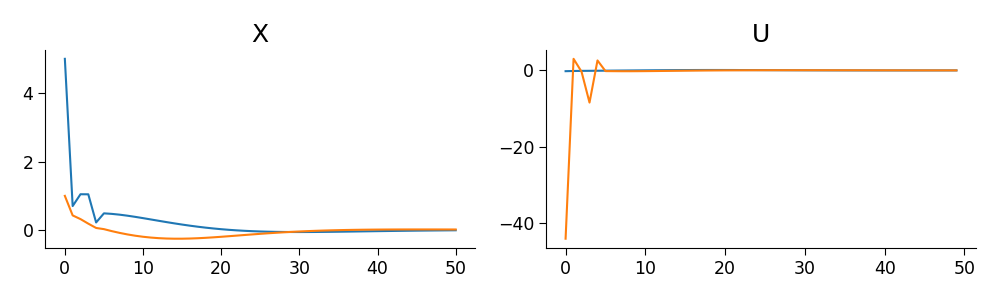
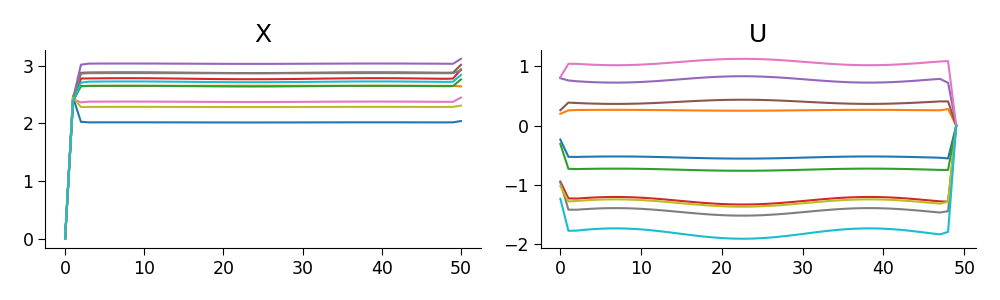
gradients passing on well-behaved nonlinear  example

diff --git a/tests/test_dilqr.py b/tests/test_dilqr.py
@@ -40,28 +40,27 @@ class TestDILQR(unittest.TestCase):
     def setUp(self):
         key = jr.PRNGKey(seed=234)
         key, skeys = keygen(key, 3)
-        n = 2
-        m = 2
+        n = 10
+        m = 10
         self.n = n
         self.m = m
         dt = 0.1
-        Uh = jnp.array([[1, dt], [-1 * dt, 1 - 0.5 * dt]])
-            #jax.random.normal(key, (n, n)) * 0.5 / jnp.sqrt(n)
+        Uh = jax.random.normal(key, (n, n)) * 0.5 / jnp.sqrt(n)
   
-        Wh =  jnp.array([[0, 1], [1, 0]]) * dt
+        Wh =  jax.random.normal(key, (n, m)) * 0.5 / jnp.sqrt(n) *dt
         L = jax.random.normal(key, (n, n)) * 0.5 / jnp.sqrt(n)
         Q = L @ L.T
         # initialise params
-        self.theta = Thetax0(x0=jnp.array([5.0, 1.0]), Q=Q, Uh=Uh, Wh=Wh, sigma=jnp.zeros((2)))
-        self.params = iLQRParams(x0=jnp.array([5.0, 1.0]), theta=self.theta)
+        self.theta = Thetax0(x0=jnp.zeros(n), Q=Q, Uh=Uh, Wh=Wh, sigma=jnp.zeros((2)))
+        self.params = iLQRParams(x0=jnp.zeros(n), theta=self.theta)
 
         # define model
         def cost(t: int, x: Array, u: Array, theta: Theta):
-            x_tgt = 0*jnp.sin(t/5)
+            x_tgt = jnp.sin(t/5)
             return (
                 jnp.sum(
                     (x.squeeze() - x_tgt.squeeze())
-                    @ (x.squeeze() - x_tgt.squeeze()).T
+                    @ theta.Q @ (x.squeeze() - x_tgt.squeeze()).T
                 )
                 + jnp.sum(jnp.log(1 + u**2))
             ) + 0.3 * jnp.sum(x**4)
@@ -71,13 +70,13 @@ class TestDILQR(unittest.TestCase):
             return 0*jnp.sum(x**2)
 
         def dynamics(t: int, x: Array, u: Array, theta: Theta):
-            return theta.Uh @ x + theta.Wh @ u #jnp.tanh(
+            return (theta.Uh @ jax.nn.sigmoid(x))*jnp.tanh(x) + theta.Wh @ u + jnp.sum(theta.Uh)*jnp.ones_like(x)
 
         self.model = System(
             cost, costf, dynamics, ModelDims(horizon=50, n=n, m=m, dt=dt)
         )
         self.dims = chex.Dimensions(T=50, N=n, M=m, X=1)
-        self.Us_init = 0.2 * jr.normal(
+        self.Us_init = 0. * jr.normal(
             next(skeys), (self.model.dims.horizon, self.model.dims.m)
         )
         # define linesearch parameters
@@ -93,7 +92,7 @@ class TestDILQR(unittest.TestCase):
         # @jax.jit
         def implicit_loss(p):
             theta = Theta(Q=p.Q, Uh=p.Uh, Wh=p.Wh, sigma=jnp.zeros((self.n)))
-            params = iLQRParams(x0=p.x0, theta=theta)
+            params = iLQRParams(x0=0*p.x0, theta=theta)
             tau_star = dilqr(
                 self.model,
                 params,
@@ -116,7 +115,7 @@ class TestDILQR(unittest.TestCase):
         def direct_loss(prms):
             theta = Theta(Uh=prms.Uh, Wh=prms.Wh, Q=prms.Q, sigma=jnp.zeros((2)))
             x_tgt = jnp.ones(self.n).squeeze()
-            params = iLQRParams(x0=prms.x0, theta=theta)
+            params = iLQRParams(x0=0*prms.x0, theta=theta)
             (Xs_stars, Us_stars, Lambs_stars), total_cost, costs = ilqr_solver(
                 self.model,
                 params,
@@ -135,7 +134,7 @@ class TestDILQR(unittest.TestCase):
         prms = self.theta
         theta = Theta(Uh=prms.Uh, Wh=prms.Wh, Q=prms.Q, sigma=jnp.zeros((2)))
         x_tgt = jnp.ones(self.n).squeeze()
-        params = iLQRParams(x0=prms.x0, theta=theta)
+        params = iLQRParams(x0=0*prms.x0, theta=theta)
         (Xs_stars, Us_stars, Lambs_stars), total_cost, costs = ilqr_solver(
                 self.model,
                 params,
@@ -156,14 +155,14 @@ class TestDILQR(unittest.TestCase):
         
         
         direct_val, direct_g = jax.value_and_grad(direct_loss)(self.theta)
-        # direct_g_flat = jax.tree.flatten(direct_g)[0]
-        # implicit_g_flat =  jax.tree.flatten(implicit_g)[0]
-        # for i, x in enumerate(direct_g_flat):
-        #     plt.figure()
-        #     plt.scatter(direct_g_flat[i].reshape(-1,1), implicit_g_flat[i].reshape(-1,1))
-        #     plt.xlabel("direct")
-        #     plt.ylabel("implicit")
-        #     plt.savefig(f"grads_{i}.png")
+        direct_g_flat = jax.tree.flatten(direct_g)[0]
+        implicit_g_flat =  jax.tree.flatten(implicit_g)[0]
+        for i, x in enumerate(direct_g_flat):
+            plt.figure()
+            plt.scatter(direct_g_flat[i].reshape(-1,1), implicit_g_flat[i].reshape(-1,1))
+            plt.xlabel("direct")
+            plt.ylabel("implicit")
+            plt.savefig(f"grads_{i}.png")
         chex.assert_trees_all_equal_shapes_and_dtypes(direct_g, self.theta)
         chex.assert_trees_all_close(direct_val, implicit_val, rtol=2e-1)
         chex.assert_trees_all_close(direct_g, implicit_g, rtol=2e-1)

diff --git a/tests/test_dlqr.py b/tests/test_dlqr.py
@@ -34,7 +34,7 @@ def setup_lqr_time_varying(
 ) -> LQR:
     """Setup LQR problem"""
     key = jr.PRNGKey(seed=234)
-    key, skeys = keygen(key, 3)
+    key, skeys = keygen(key, 4)
     # initialise dynamics
     span_time_m = dims["TXX"]
     span_time_v = dims["TX"]
@@ -46,7 +46,7 @@ def setup_lqr_time_varying(
     q = 2 * 1e-1 * jnp.tile(jnp.ones(dims["N"]), span_time_v)
     R = pen_weight["R"] * jnp.tile(jnp.eye(dims["M"][0]), span_time_m)
     r = 1e-6 * jnp.tile(jnp.ones(dims["M"]), span_time_v)
-    S = pen_weight["S"] * jnp.tile(jnp.ones(dims["NM"]), span_time_m)
+    S = pen_weight["S"] * jnp.tile(jr.normal(next(skeys), dims["NM"]), span_time_m)
     Qf = pen_weight["Q"] * jnp.eye(dims["N"][0])
     qf = 2 * 1e-1 * jnp.ones(dims["N"])
     # construct LQR
@@ -65,14 +65,14 @@ def setup_lqr(
     span_time_v = dims["TX"]
     A = initialise_stable_dynamics(next(skeys), *dims["NT"], radii=0.6)
     B = jnp.tile(jr.normal(next(skeys), dims["NM"]), span_time_m)
-    a = jnp.tile(jr.normal(next(skeys), dims["N"]), span_time_v)
+    a = 0*jnp.tile(jr.normal(next(skeys), dims["N"]), span_time_v)
     Qf = 1.0 * jnp.eye(dims["N"][0])
     qf = 1.0 * jnp.ones(dims["N"])
     Q = 1.0 * jnp.tile(jnp.eye(dims["N"][0]), span_time_m)
-    q = 0.0 * jnp.tile(jnp.ones(dims["N"]), span_time_v)
+    q = 1.0 * jnp.tile(jnp.ones(dims["N"]), span_time_v)
     R = 1.0 * jnp.tile(jnp.eye(dims["M"][0]), span_time_m)
-    r = 0.0 * jnp.tile(jnp.ones(dims["M"]), span_time_v)
-    S = 0.0 * jnp.tile(jnp.ones(dims["NM"]), span_time_m)
+    r = 1.0 * jnp.tile(jnp.ones(dims["M"]), span_time_v)
+    S = 0.5 * jnp.tile(jnp.ones(dims["NM"]), span_time_m)
     return LQR(A, B, a, Q, q, R, r, S, Qf, qf)()
 
 
@@ -206,11 +206,16 @@ class TestDLQR(unittest.TestCase):
         implicit_val, implicit_g = jax.value_and_grad(implicit_loss)(prms)
         direct_val, direct_g = jax.value_and_grad(direct_loss)(prms)
         if PRINTING_ON:
-            print("\n || Printing grads || \n ")
-            print("\n || Printing  a || \n ")
-            print(implicit_g.a[:4])
-            print(direct_g.a[:4])
+            print("\n || Printing grads S || \n ")
+            print("\n || Implicit || \n ")
+            print(lqr_g.S[:4])
+            print("\n || Direct || \n ")
+            print(direct_g.S[:4])
+            print("\n || Printing grads a || \n ")
+            print("\n || Implicit || \n ")
             print(lqr_g.a[:4])
+            print("\n || Direct || \n ")
+            print(direct_g.a[:4])
             print("\n || Printing  Q || \n ")
             print(direct_g.Q[:4])
             print(lqr_g.Q[:4])

diff --git a/diffilqrax/diff_ilqr.py b/diffilqrax/diff_ilqr.py
@@ -7,7 +7,7 @@ import jax.numpy as jnp
 from jax.numpy import matmul as mm
 
 from diffilqrax.typs import iLQRParams, System, LQR, LQRParams
-from diffilqrax.ilqr import ilqr_solver, approx_lqr_dyn
+from diffilqrax.ilqr import ilqr_solver, approx_lqr_dyn, approx_lqr_offset
 from diffilqrax.diff_lqr import dllqr, offset_lqr
 from diffilqrax.lqr import bmm
 
@@ -17,7 +17,7 @@ def make_local_lqr(model, Xs_star, Us_star, params):
     lqr = approx_lqr_dyn(model, Xs_star, Us_star, params)
     new_lqr = offset_lqr(lqr, Xs_star, Us_star)
     # get the local LQR like that, and then gradients wrt to that from the function,
-    return new_lqr
+    return new_lqr #new_lqr
 
 
 # so do need the custom ilqr

diff --git a/diffilqrax/diff_lqr.py b/diffilqrax/diff_lqr.py
@@ -101,7 +101,7 @@ def build_ajoint_lqr(
         jnp.einsum("ij,ik->ijk", c_bar, tau_star)
     )  # factor of 2 included in symmetrization
     Q_bar, R_bar = C_bar[:, : dims.n, : dims.n], C_bar[:, dims.n :, dims.n :]
-    S_bar = 2 * C_bar[:, : dims.n, dims.n :]
+    S_bar = 2*C_bar[:, : dims.n, dims.n :]# + C_bar[:, dims.n :, : dims.n].transpose(0, 2, 1))
     A_bar, B_bar = F_bar[..., : dims.n], F_bar[..., dims.n :]
     LQR_bar = LQR(
         A=A_bar,

diff --git a/diffilqrax/ilqr.py b/diffilqrax/ilqr.py
@@ -23,7 +23,7 @@ from diffilqrax.utils import time_map
 
 
 jax.config.update("jax_enable_x64", True)  # double precision
-jax.config.update("jax_disable_jit", True)  # uncomment for debugging purposes
+jax.config.update("jax_disable_jit", False)  # uncomment for debugging purposes
 
 
 def sum_cost_to_go(x: CostToGo) -> Array:
